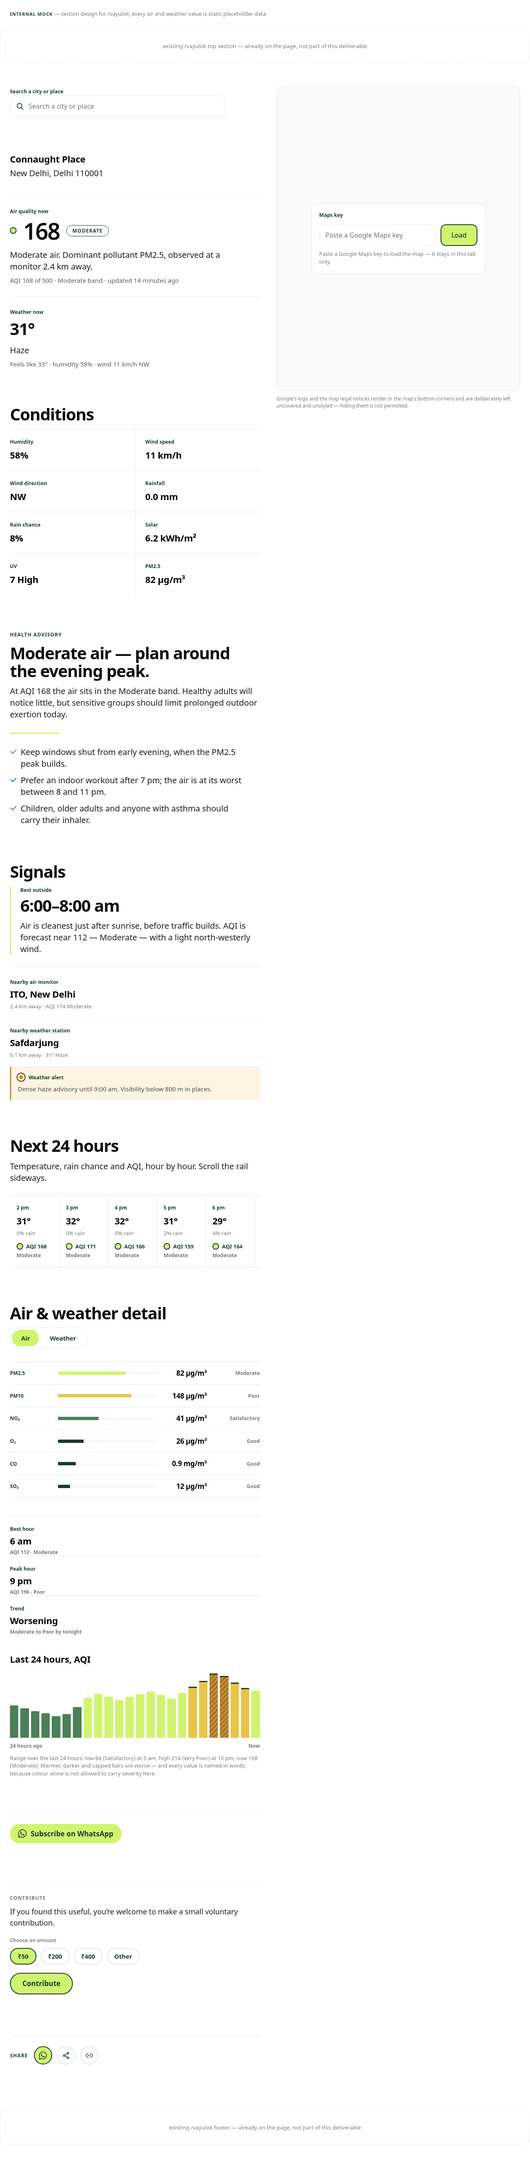
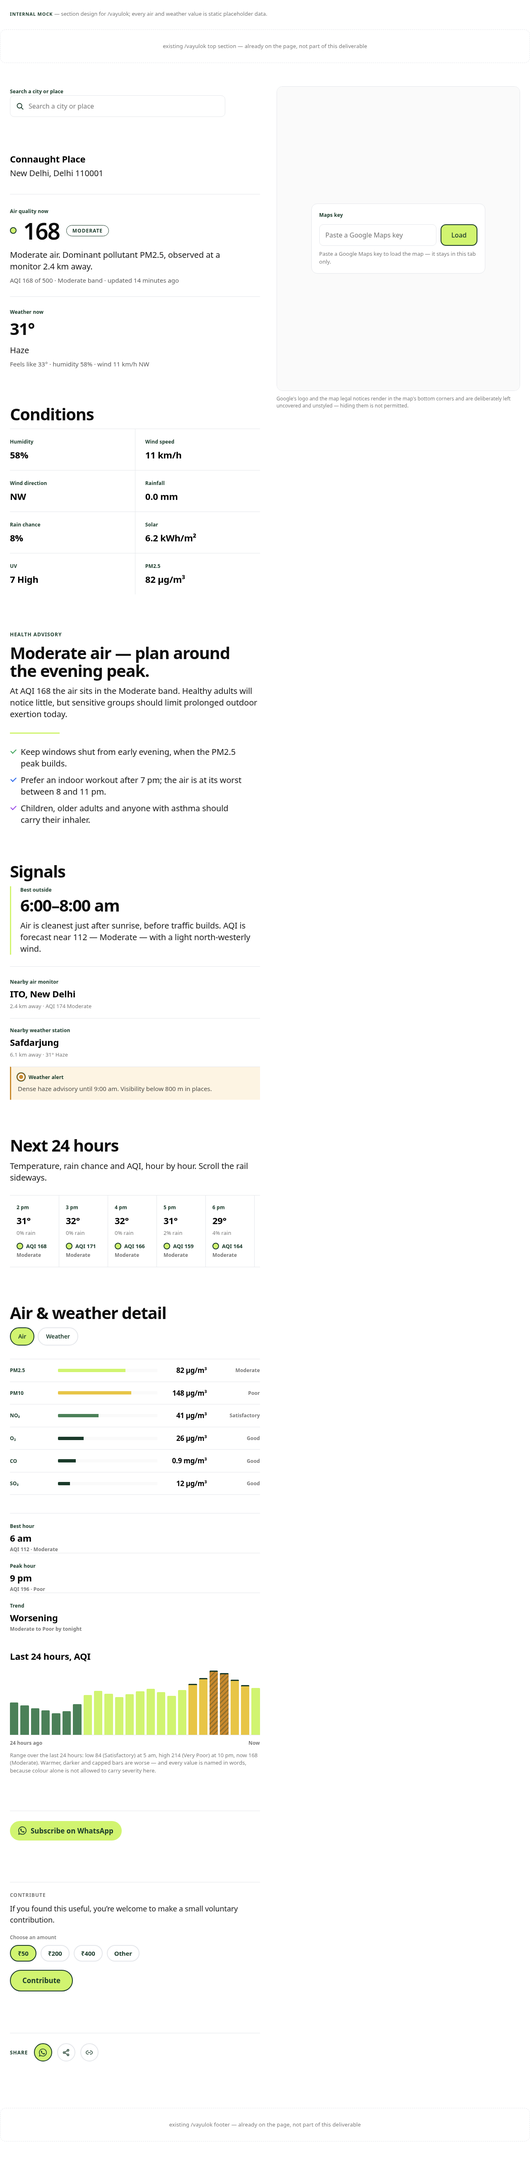
feat(vayulok): take every control's style from its shipped counterpart, role for role
Second half of the owner's "follow the entire same style everywhere", after the
Subscribe/Contribute/Share stack landed in edb16b84. Role-for-role, NOT one
shape for everything: the site renders chips and CTAs as full pills while
button.css declares a 13px radius for .btn, so flattening every control to one
radius would be a new defect rather than a fix.

AQI / PM2.5 / Clear key (ROLE 5) and the chart tabs (ROLE 6) now carry the
shipped segmented pill from .category-switch a / .cat-here
(BlogIndexView.tsx:470-484): 44px, 0 18px, 2px #e5e7eb, 999px, 14px/600, with
the lime #d1f470 + #1a3a2a pairing for the current one and the lime-edge-plus-.22
tint on hover. ROLE 5 was 38px/1px/13px-700 and ROLE 6 was 40px/15px-700 with no
border - both invented here. 44px is also the WCAG 2.5.8 target floor the old
38px missed. Both rows play the same role, "pick one of these", so they share
one shape and the harness asserts that as a COMPARISON between the two rows
rather than as two copies of the literals.

.vl-tabs loses its inner track: it drew one hairline around the whole group
while each tab had no border, and the shipped row has no track because every
pill carries its own edge - keeping it would have drawn a border around a row of
bordered pills.

The dashboard's .ps-tab (inner-ux.css:1792) was deliberately NOT used as the
counterpart, and the rule records why: it is scoped under .layout .main-content
at 12px/500 with a 10px radius, and inner-pages.css:2442 overrides its active
[…]

diff --git a/docs/mocks/vayulok-final-v3.html b/docs/mocks/vayulok-final-v3.html
@@ -204,7 +204,7 @@ html,body{margin:0;background:#fff}
      ROLE 3  text input      .vl-input, .vl-search-field  52px / 10px / 1px #e5e7eb
      ROLE 4  amount chip     .vl-bc-choice-face       40px / 999px / 15px-700 / 2px #e5e7eb
      ROLE 5  map control     .vl-layer, .vl-map-btn   44px / 999px / 14px-600 / 2px #e5e7eb
-     ROLE 6  tab             .vl-tab                  40px / 999px / 15px-700 / no border
+     ROLE 6  tab             .vl-tab                  44px / 999px / 14px-600 / 2px #e5e7eb (= ROLE 5)
      ROLE 7  result option   .vl-search-option        52px / no radius / 16px-600 + 13px / lime active
      ROLE 8  subscribe pill  .vl-wa-subscribe         47px measured / 999px / 17px-700 / NO border / lime
      ROLE 9  contribute pill .vl-pill + .vl-pill-action  52px / 999px / 17px-700 / 2px #1a3a2a / lime
@@ -363,10 +363,15 @@ html,body{margin:0;background:#fff}
    row at ROLE 2's 32px. */
 
 /* ROLE 6 - TAB ('Air', 'Weather'). The rule is .vl-tab, declared with the
-   detail panels further down: 40px tall, 999px, 15px/700, NO border, lime fill
-   when selected. The missing border is deliberate - the tabs sit inside
-   .vl-tabs, which draws the one hairline for the whole group, so a border per
-   tab would double it. */
+   detail panels further down. It now carries the SHIPPED segmented pill -
+   44px, 999px, 14px/600, 2px #e5e7eb, lime fill with a #1a3a2a edge when
+   selected - the same shape as ROLE 5 and from the same source,
+   BlogIndexView.tsx:470-484, because both rows play the same role.
+   PREVIOUSLY 40px / 15px-700 with NO border, because the tabs sat inside a
+   .vl-tabs track that drew one hairline for the whole group. The shipped row
+   has no track and every pill carries its own edge, so the track went with the
+   borderless tab. See the rule for the full note and for why the dashboard's
+   .ps-tab was rejected as the counterpart. */
 
 /* ============================================================================
    THE LAYOUT. ONE grid, TWO columns, spanning the WHOLE app block.
@@ -830,15 +835,41 @@ html,body{margin:0;background:#fff}
    the insight line is a hairline-divided three-up rather than three cards, and
    the chart has no frame.
    ========================================================================= */
-.vl-tabs{display:inline-flex;gap:4px;padding:4px;border:1px solid var(--hair);border-radius:var(--r-pill);margin-bottom:32px}
+/* ROLE 6 NOW CARRIES THE SAME SHIPPED PILL AS ROLE 5, and the shared source is
+   `.category-switch :global(a)` / `.cat-here`, BlogIndexView.tsx:470-484. Both
+   rows play the same role - "pick one of these, one is current" - and on the
+   real site that is what a category switch looks like, so they deliberately
+   share geometry. The role NUMBERS stay distinct because they are cited from
+   outside this file and because the semantics differ (a tablist vs a map
+   toggle group); only the shape is shared.
+   THE INNER TRACK IS GONE. .vl-tabs used to draw one 1px hairline around the
+   group with 4px of padding, and each tab had no border of its own. The shipped
+   row has no track at all - every pill carries its own 2px edge - so keeping the
+   track would have put a border around a row of bordered pills. margin-bottom
+   stays 32px, which is also what .category-switch declares (margin:0 0 32px).
+   REJECTED ALTERNATIVE: `.ps-tab` (src/styles/inner-ux.css:1792) is the repo's
+   only literal role="tab" styling, and it is NOT used here on purpose. It is a
+   DASHBOARD control - scoped under `.layout .main-content`, 12px/500 type, a
+   10px radius and a 1.5px edge, with inner-pages.css:2442 overriding its active
+   radius to 13px with !important. That is the authenticated app's dense design
+   language; this mock is a public page, and mixing the two is how a mock stops
+   matching the site it is meant to mirror. */
+.vl-tabs{display:flex;flex-wrap:wrap;gap:8px;margin-bottom:32px}
 .vl-tab{
-  min-height:40px;padding:0 22px;border:0;border-radius:var(--r-pill);
-  background:transparent;color:var(--green);
-  font:inherit;font-size:15px;font-weight:700;letter-spacing:-.125px;cursor:pointer;
-  transition:background-color .2s;
+  flex:0 0 auto;display:inline-flex;align-items:center;justify-content:center;
+  min-height:44px;padding:0 18px;
+  border:2px solid var(--hair);border-radius:var(--r-pill);
+  background:var(--paper);color:var(--green);
+  font:inherit;font-size:14px;font-weight:600;letter-spacing:-.125px;cursor:pointer;
+  transition:background-color .2s,border-color .2s,transform .2s,box-shadow .2s;
 }
-.vl-tab:focus-visible{outline:3px solid var(--green);outline-offset:2px}
-.vl-tab[aria-selected="true"]{background:var(--lime)}
+.vl-tab:hover{
+  border-color:var(--lime);background:var(--lime-tint);
+  transform:translateY(-2px);box-shadow:0 4px 12px rgba(26,58,42,.12);
+}
+.vl-tab:focus-visible{outline:3px solid var(--green);outline-offset:3px}
+/* The selected tab is the shipped .cat-here: lime fill, #1a3a2a edge. */
+.vl-tab[aria-selected="true"]{background:var(--lime);border-color:var(--green)}
 /* The pollutant row carries no prose, so it survives a narrow column - but the
    four fixed tracks need ~360px before the bar gets any width, so below a
    560px container the bar drops to its own line instead of being crushed. */
@@ -1159,6 +1190,7 @@ html,body{margin:0;background:#fff}
   /* ROLE 5 took the shipped pill's 2px lift and shadow with its geometry, so it
      needs the same reset. The colour change stays: that is information. */
   .vl-layer:hover,.vl-map-btn:hover{transform:none;box-shadow:none}
+  .vl-tab:hover{transform:none;box-shadow:none}
   /* THE TIP STILL APPEARS - it is the button's label, not decoration. Only the 4px
      slide goes; the translateX is the centring, not the animation. */
   .vl-share-btn:hover .vl-share-tip,

diff --git a/docs/mocks/vayulok-live-mock.html b/docs/mocks/vayulok-live-mock.html
@@ -204,7 +204,7 @@ html,body{margin:0;background:#fff}
      ROLE 3  text input      .vl-input, .vl-search-field  52px / 10px / 1px #e5e7eb
      ROLE 4  amount chip     .vl-bc-choice-face       40px / 999px / 15px-700 / 2px #e5e7eb
      ROLE 5  map control     .vl-layer, .vl-map-btn   44px / 999px / 14px-600 / 2px #e5e7eb
-     ROLE 6  tab             .vl-tab                  40px / 999px / 15px-700 / no border
+     ROLE 6  tab             .vl-tab                  44px / 999px / 14px-600 / 2px #e5e7eb (= ROLE 5)
      ROLE 7  result option   .vl-search-option        52px / no radius / 16px-600 + 13px / lime active
      ROLE 8  subscribe pill  .vl-wa-subscribe         47px measured / 999px / 17px-700 / NO border / lime
      ROLE 9  contribute pill .vl-pill + .vl-pill-action  52px / 999px / 17px-700 / 2px #1a3a2a / lime
@@ -363,10 +363,15 @@ html,body{margin:0;background:#fff}
    row at ROLE 2's 32px. */
 
 /* ROLE 6 - TAB ('Air', 'Weather'). The rule is .vl-tab, declared with the
-   detail panels further down: 40px tall, 999px, 15px/700, NO border, lime fill
-   when selected. The missing border is deliberate - the tabs sit inside
-   .vl-tabs, which draws the one hairline for the whole group, so a border per
-   tab would double it. */
+   detail panels further down. It now carries the SHIPPED segmented pill -
+   44px, 999px, 14px/600, 2px #e5e7eb, lime fill with a #1a3a2a edge when
+   selected - the same shape as ROLE 5 and from the same source,
+   BlogIndexView.tsx:470-484, because both rows play the same role.
+   PREVIOUSLY 40px / 15px-700 with NO border, because the tabs sat inside a
+   .vl-tabs track that drew one hairline for the whole group. The shipped row
+   has no track and every pill carries its own edge, so the track went with the
+   borderless tab. See the rule for the full note and for why the dashboard's
+   .ps-tab was rejected as the counterpart. */
 
 /* ============================================================================
    THE LAYOUT. ONE grid, TWO columns, spanning the WHOLE app block.
@@ -830,15 +835,41 @@ html,body{margin:0;background:#fff}
    the insight line is a hairline-divided three-up rather than three cards, and
    the chart has no frame.
    ========================================================================= */
-.vl-tabs{display:inline-flex;gap:4px;padding:4px;border:1px solid var(--hair);border-radius:var(--r-pill);margin-bottom:32px}
+/* ROLE 6 NOW CARRIES THE SAME SHIPPED PILL AS ROLE 5, and the shared source is
+   `.category-switch :global(a)` / `.cat-here`, BlogIndexView.tsx:470-484. Both
+   rows play the same role - "pick one of these, one is current" - and on the
+   real site that is what a category switch looks like, so they deliberately
+   share geometry. The role NUMBERS stay distinct because they are cited from
+   outside this file and because the semantics differ (a tablist vs a map
+   toggle group); only the shape is shared.
+   THE INNER TRACK IS GONE. .vl-tabs used to draw one 1px hairline around the
+   group with 4px of padding, and each tab had no border of its own. The shipped
+   row has no track at all - every pill carries its own 2px edge - so keeping the
+   track would have put a border around a row of bordered pills. margin-bottom
+   stays 32px, which is also what .category-switch declares (margin:0 0 32px).
+   REJECTED ALTERNATIVE: `.ps-tab` (src/styles/inner-ux.css:1792) is the repo's
+   only literal role="tab" styling, and it is NOT used here on purpose. It is a
+   DASHBOARD control - scoped under `.layout .main-content`, 12px/500 type, a
+   10px radius and a 1.5px edge, with inner-pages.css:2442 overriding its active
+   radius to 13px with !important. That is the authenticated app's dense design
+   language; this mock is a public page, and mixing the two is how a mock stops
+   matching the site it is meant to mirror. */
+.vl-tabs{display:flex;flex-wrap:wrap;gap:8px;margin-bottom:32px}
 .vl-tab{
-  min-height:40px;padding:0 22px;border:0;border-radius:var(--r-pill);
-  background:transparent;color:var(--green);
-  font:inherit;font-size:15px;font-weight:700;letter-spacing:-.125px;cursor:pointer;
-  transition:background-color .2s;
+  flex:0 0 auto;display:inline-flex;align-items:center;justify-content:center;
+  min-height:44px;padding:0 18px;
+  border:2px solid var(--hair);border-radius:var(--r-pill);
+  background:var(--paper);color:var(--green);
+  font:inherit;font-size:14px;font-weight:600;letter-spacing:-.125px;cursor:pointer;
+  transition:background-color .2s,border-color .2s,transform .2s,box-shadow .2s;
 }
-.vl-tab:focus-visible{outline:3px solid var(--green);outline-offset:2px}
-.vl-tab[aria-selected="true"]{background:var(--lime)}
+.vl-tab:hover{
+  border-color:var(--lime);background:var(--lime-tint);
+  transform:translateY(-2px);box-shadow:0 4px 12px rgba(26,58,42,.12);
+}
+.vl-tab:focus-visible{outline:3px solid var(--green);outline-offset:3px}
+/* The selected tab is the shipped .cat-here: lime fill, #1a3a2a edge. */
+.vl-tab[aria-selected="true"]{background:var(--lime);border-color:var(--green)}
 /* The pollutant row carries no prose, so it survives a narrow column - but the
    four fixed tracks need ~360px before the bar gets any width, so below a
    560px container the bar drops to its own line instead of being crushed. */
@@ -1159,6 +1190,7 @@ html,body{margin:0;background:#fff}
   /* ROLE 5 took the shipped pill's 2px lift and shadow with its geometry, so it
      needs the same reset. The colour change stays: that is information. */
   .vl-layer:hover,.vl-map-btn:hover{transform:none;box-shadow:none}
+  .vl-tab:hover{transform:none;box-shadow:none}
   /* THE TIP STILL APPEARS - it is the button's label, not decoration. Only the 4px
      slide goes; the translateX is the centring, not the animation. */
   .vl-share-btn:hover .vl-share-tip,

diff --git a/tools/browser/vayuloksubcheck.js b/tools/browser/vayuloksubcheck.js
@@ -969,6 +969,53 @@ const run = async ( browser, mock ) => {
         `${audit.key.h}/${audit.key.radius} vs ${audit.search.h}/${audit.search.radius}` );
     }
 
+    /* ROLE 6, the chart tabs. Same shipped pill as ROLE 5 and from the same source,
+       because both rows are "pick one of these". The .vl-tabs inner track is gone, so
+       this also asserts the track no longer draws a border around a row of bordered
+       pills. The dashboard's .ps-tab was deliberately NOT used - see the mock's rule. */
+    const tabs = await page.evaluate( () => {
+      const row = document.querySelector( '.vl-tabs' );
+      const list = Array.prototype.slice.call( document.querySelectorAll( '.vl-tab' ) );
+      return {
+        trackBorder: row ? getComputedStyle( row ).borderTopWidth : null,
+        trackPadding: row ? getComputedStyle( row ).paddingTop : null,
+        items: list.map( el => {
+          const c = getComputedStyle( el );
+          return {
+            text: el.textContent.trim(),
+            h: +el.getBoundingClientRect().height.toFixed( 1 ),
+            radius: c.borderTopLeftRadius, fontSize: c.fontSize, fontWeight: c.fontWeight,
+            borderWidth: c.borderTopWidth, borderColor: c.borderTopColor,
+            background: c.backgroundColor,
+            padding: c.paddingLeft + '/' + c.paddingRight,
+            selected: el.getAttribute( 'aria-selected' ),
+          };
+        } ),
+      };
+    } );
+    record( scope, 'ROLE 6 tabs exist', tabs.items.length >= 2, `${tabs.items.length}` );
+    if ( tabs.items.length ) {
+      record( scope, 'ROLE 6 tabs are the shipped pill (44px / 999px / 14px-600 / 2px)',
+        tabs.items.every( t => t.h === 44 && t.radius === '999px' && t.fontSize === '14px'
+          && t.fontWeight === '600' && t.borderWidth === '2px' && t.padding === '18px/18px' ),
+        tabs.items.map( t => `${t.text} ${t.h}px ${t.radius} ${t.fontSize}/${t.fontWeight} ${t.borderWidth}` ).join( ' | ' ) );
+      /* The track must no longer draw an edge around pills that have their own. */
+      record( scope, 'ROLE 6 the .vl-tabs inner track draws no border',
+        tabs.trackBorder === '0px', String( tabs.trackBorder ) );
+      const sel = tabs.items.filter( t => t.selected === 'true' );
+      const unsel = tabs.items.filter( t => t.selected !== 'true' );
+      record( scope, 'ROLE 6 exactly one tab is selected', sel.length === 1,
+        `${sel.length}: ${sel.map( t => t.text ).join( ', ' )}` );
+      record( scope, 'ROLE 6 selected tab is lime with a #1a3a2a edge',
+        sel.length === 1 && sel[ 0 ].background === 'rgb(209, 244, 112)'
+        && sel[ 0 ].borderColor === 'rgb(26, 58, 42)',
+        sel.length ? `${sel[ 0 ].background} / ${sel[ 0 ].borderColor}` : 'none' );
+      record( scope, 'ROLE 6 unselected tabs are white with #e5e7eb',
+        unsel.length > 0 && unsel.every( t => t.background === 'rgb(255, 255, 255)'
+          && t.borderColor === 'rgb(229, 231, 235)' ),
+        unsel.map( t => `${t.background} ${t.borderColor}` ).join( ', ' ) );
+    }
+
     /* ---- THE SUBSCRIBE PANEL AND HEADING ARE GONE ---------------------------
        The owner compared the mock against the live post page and found the one
        remaining mismatch here: the mock wrapped the anchor in a lime-tinted panel with
@@ -1098,6 +1145,18 @@ const run = async ( browser, mock ) => {
       record( scope, 'ROLE 5 pressed pill LOOKS different from the unpressed ones',
         pressed.length === 1 && unpressed.every( r => r.background !== pressed[ 0 ].background ),
         unpressed.map( r => r.background ).join( ', ' ) );
+      /* ROLE 5 AND ROLE 6 MUST AGREE, because they are the same shipped shape from the
+         same source. Asserted as a comparison, not against two copies of the literals,
+         so the two rows cannot be "fixed" apart later. (Declared here rather than in the
+         ROLE 6 block above because `mapRow` is initialised further down this function -
+         reading it earlier threw a temporal-dead-zone ReferenceError.) */
+      if ( tabs.items.length ) {
+        record( scope, 'ROLE 5 and ROLE 6 share the shipped pill geometry',
+          tabs.items[ 0 ].h === mapRow[ 0 ].h && tabs.items[ 0 ].radius === mapRow[ 0 ].radius
+          && tabs.items[ 0 ].fontSize === mapRow[ 0 ].fontSize
+          && tabs.items[ 0 ].fontWeight === mapRow[ 0 ].fontWeight,
+          `tab ${tabs.items[ 0 ].h}/${tabs.items[ 0 ].fontSize} vs map ${mapRow[ 0 ].h}/${mapRow[ 0 ].fontSize}` );
+      }
     }
     /* CLEAR KEY MUST NOT HAVE JOINED THE AQI/PM2.5 RADIO GROUP, which is the risk created
        by giving it the same geometry as the two pills beside it.

diff --git a/.agents/tasks/vayulok-port-verify.md b/.agents/tasks/vayulok-port-verify.md
@@ -24,10 +24,10 @@ npm install --prefix tools/browser --no-audit --no-fund      # idempotent; repor
 node tools/browser/vayuloksubcheck.js
 ```
 
-**Result: `804/804 assertions passed`, process exit code `0`.** That is both twins
+**Result: `880/880 assertions passed`, process exit code `0`.** That is both twins
 (`vayulok-live-mock.html` and `vayulok-final-v3.html`) at both viewports (1280x900 and 390x844).
 `node tools/browser/vayuloksubcheck.js --json` also exits `0` and emits well-formed JSON.
-Baseline before this pass was `432/432`; the suite grew by 372 assertions.
+Baseline before this pass was `432/432`; the suite grew by 448 assertions.
 
 **`npm` is not on `$PATH` in this sandbox** — `which npm` fails; it lives at
 `~/.nvm/versions/node/v22.23.3/bin`. That cost a round; hence the export line above.
@@ -315,9 +315,12 @@ amount block records that and names both files as what a real rollout would have
 
 | Pair | Hash (both files) | |
 | --- | --- | --- |
-| `vayulok-live-mock.html` + `vayulok-final-v3.html` | `4ac8441bc0733e4cb7854bae34ff6b2625dd537a` | identical |
-| `vayulok-live-mock-1280.png` + `vayulok-final-v3-1280.png` | `2286230c591600098beba189ce0a6cab4ec71557` | identical |
-| `vayulok-live-mock-390.png` + `vayulok-final-v3-390.png` | `2637a62165c65fb10b215ea8b3db69af937fbb94` | identical |
+| `vayulok-live-mock.html` + `vayulok-final-v3.html` | `eb1406ec1b42a6675629a1afec5e740beac1fb6d` | identical |
+| `vayulok-live-mock-1280.png` + `vayulok-final-v3-1280.png` | `26b786de0b44558e2c775d4b46f6778cb0f7fdd3` | identical |
+| `vayulok-live-mock-390.png` + `vayulok-final-v3-390.png` | `ad952433711263b33a19f072068a7073174f2be5` | identical |
+
+Commit 1 (the stack and the separators, pushed separately so the owner could see it immediately)
+was `edb16b84`, at twin hash `4ac8441bc0733e4cb7854bae34ff6b2625dd537a`.
 
 Method: edit `vayulok-live-mock.html` only, then
 `cp docs/mocks/vayulok-live-mock.html docs/mocks/vayulok-final-v3.html`, then hash both.
@@ -360,26 +363,78 @@ it is not in the diff.
 
 ---
 
-## 12. STILL TO DO — the "same style everywhere" audit (deliberately a second commit)
+## 12. The "same style everywhere" role audit — the role mapping I chose
 
-The owner extended scope to *every* interactive control in the mock, each taking the shipped style
-for **its own role** (explicitly *not* flattening everything to one shape). The owner also asked
-that the Subscribe/Contribute/Share stack and the separators land **first** so the match is visible
-immediately — which is what this commit is. Remaining controls to audit role-for-role:
+The owner extended scope to *every* interactive control, each taking the shipped style for **its own
+role**, explicitly *not* flattening everything to one shape. **The full mapping, with the shipped
+source and the values taken:**
 
-- `.vl-keygate`'s **Load** button and its "Paste a Google Maps key" input (restyle only — the
-  paste-a-key behaviour must keep working; `.vl-keygate` is load-bearing for zero-network)
-- the **Clear key** control
-- the **AQI / PM2.5** layer toggles (`.vl-layer`)
-- the **"Search a city or place"** input and its results list
+| Mock control | Role | Shipped counterpart | Values taken | Changed? |
+| --- | --- | --- | --- | --- |
+| `Load` (`.vl-btn`) | ROLE 1 action | `.btn`+`.btn-lg`+`.btn-primary`, `src/styles/button.css:20,51,74` | 52px, **13px radius**, 16px/500, `#d1f470`, 2px `#1a3a2a` | **no — already exact** |
+| Maps-key input (`.vl-input`) | ROLE 3 field | `.blog-subscribe-cell>input`, `BlogSubscribe.tsx:328-330` | 52px, 10px radius, 1px `#e5e7eb`, `0 14px`, 16px | **no — already exact** |
+| Search field (`.vl-search-field`) | ROLE 3 field | same as above | 52px, 10px, 1px `#e5e7eb` | **no — already exact** |
+| Amount chips (`.vl-bc-choice-face`) | ROLE 4 chip | `.bc-choice-face`, `BlogContribution.tsx:275-280` | 999px, `8px 16px`, 2px `#e5e7eb`, 15px/700 | no — ported earlier |
+| **AQI / PM2.5 / Clear key** | **ROLE 5** | **`.category-switch a` / `.cat-here`, `BlogIndexView.tsx:470-484`** | **44px, `0 18px`, 2px `#e5e7eb`, 999px, 14px/600, `-.125px`; pressed = `#d1f470` + `#1a3a2a`; hover = lime edge + `.22` tint** | **YES — was 38px/1px/13px-700** |
+| **Chart tabs (`.vl-tab`)** | **ROLE 6** | **same as ROLE 5** | **same** | **YES — was 40px/15px-700/no border** |
+| Result rows (`.vl-search-option`) | ROLE 7 | n/a — a listbox row inside an overlay | unchanged; measured 61/62px, clears the 44px bar | no |
+| Subscribe anchor | ROLE 8 | `.blog-wa-subscribe`, `[slug].tsx:772-782` | see §2 | ported earlier |
+| Contribute pill | ROLE 9 | `.pill`/`.pill-action`, `PillButton.tsx:202-224` | see §2 | ported earlier |
+| Share circles | ROLE 10 | `.share-btn`, `ShareLinks.tsx:175-202` | see §2 | ported earlier |
 
-Canonical sources to read rather than guess: `src/styles/button.css` (note `.btn-lg` is 52px tall
-with 16px type, `.btn-sm` is 36px with 13px type, and **the 13px figure in that file is the
-BORDER-RADIUS, not a font size** — a brief has had this backwards before), `src/styles/inner-pages.css`,
-and the three shipped components.
+**ROLE 1 and ROLE 3 were audited and found ALREADY correct** — and that is now asserted
+(`AUDIT ROLE 1 …`, `AUDIT ROLE 3 …`), so "already correct" is a checked fact rather than a claim,
+and a later edit cannot drift them silently. The two ROLE 3 fields are also asserted to be the
+**same box as each other**, because two fields on one page must not be two shapes.
 
-**HAZARD, carried forward so it is not rediscovered:** the map script wires its radio group with
-`querySelectorAll('.vl-layer')`. Do **not** add `.vl-layer` to any control outside that group and do
-**not** remove it from AQI/PM2.5 — an earlier round found that giving "Clear key" that class would
-let pressing it un-press AQI and leave the map claiming no active layer. Controls sharing a row must
-share geometry.
+**`.btn`'s 13px is the BORDER-RADIUS, not a font size** (`.btn-lg` is 52px tall with 16px type,
+`.btn-sm` is 36px with 13px type). A brief describing this file has had that backwards; the harness
+comment records it so the next reader does not re-introduce the error.
+
+**Why ROLE 5 and ROLE 6 deliberately share one shape:** both rows are "pick one of these, one is
+current", which on the real site is what `.category-switch` looks like. They keep distinct role
+**numbers** (cited from outside this file, and the semantics differ — a tablist vs a map toggle
+group) but the geometry is asserted as a *comparison* between the two rows, so they cannot be
+"fixed" apart. 44px is also the WCAG 2.5.8 target floor that the old 38px tabs missed.
+
+**Rejected counterpart, recorded so it is not re-litigated:** `.ps-tab`
+(`src/styles/inner-ux.css:1792`) is the repo's only literal `role="tab"` styling and was **not**
+used. It is a dashboard control — scoped under `.layout .main-content`, 12px/500 type, 10px radius,
+1.5px edge, with `inner-pages.css:2442` overriding its active radius to 13px with `!important`.
+That is the authenticated app's dense design language; this mock is a public page.
+
+**The `.vl-tabs` inner track was removed** as part of ROLE 6. It drew one 1px hairline around the
+whole group while each tab had no border; the shipped row has no track and every pill carries its
+own 2px edge, so keeping it would have put a border around a row of bordered pills. Asserted:
+the track's computed `border-top-width` is `0px`. `margin-bottom:32px` is retained — which is also
+what `.category-switch` declares (`margin:0 0 32px`).
+
+**`--lime-tint` was deleted and then restored**, honestly: it lost its original user with the
+`.vl-subscribe` panel, then immediately gained a real one — the shipped segmented-pill hover tint at
+`BlogIndexView.tsx:478` is the same `rgba(209,244,112,.22)`. One token, one live user.
+
+### The `.vl-layer` radio-group hazard — respected and asserted
+
+The map script wires its radio group with `querySelectorAll('.vl-layer')`. **`.vl-layer` was not
+added to any control outside the group and not removed from AQI/PM2.5.** The class split is
+unchanged: `.vl-layer` is the group, `.vl-map-btn` is "Clear key" and shares **geometry only**, and
+the `[aria-pressed="true"]` rule stays on `.vl-layer` alone — "Clear key" is an action, not a state.
+Four assertions guard this and all pass: `Clear key is .vl-map-btn, not .vl-layer`;
+`Clear key is not in the layer toggle group` (group = `vl-layer-aqi, vl-layer-pm`);
+`the layer group is exactly AQI + PM2.5`; `Clear key carries no aria-pressed state`.
+
+Measured after the restyle, with the keygate scrim hidden and Clear key revealed:
+`AQI 44px 2px rgb(26,58,42) rgb(209,244,112) 14px/600 999px` (pressed),
+`PM2.5` and `Clear key` both `44px 2px rgb(229,231,235) rgb(255,255,255) 14px/600 999px`.
+The row is asserted to share one height, font, padding and vertical alignment.
+
+**`.vl-keygate`'s behaviour is untouched** — only ROLE 5's geometry moved. The paste-a-key flow,
+the scrim and the `maps.googleapis.com` host assembled from an array `join` are all as they were,
+which is what keeps the page at zero network on load.
+
+### Not changed, and why
+
+`.vl-search-option` (ROLE 7) has no shipped counterpart — it is a listbox row inside an absolutely
+positioned overlay, a pattern the public site does not have. Its 10px radius and 1px `#e5e7eb`
+border already match the ROLE 3 field it hangs from, and its lime active row is the same `#d1f470`
+"current" voice as `.cat-here`. Left alone deliberately rather than invented against.
